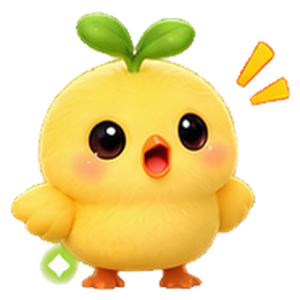
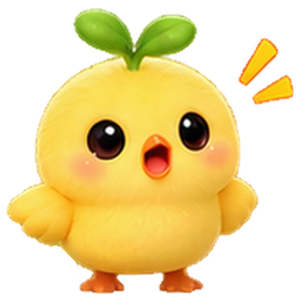
feat: 자산아리 초원 배경 + LV.6~10 반짝이 장식 제거
- 무대 배경을 초원 이미지(public/chicks/bg_meadow.jpg)로, 진화 단계 색은 옅게 오버레이
- 병아리 발밑 그림자 추가
- LV.6~10 이미지에서 마름모·빛구슬·반짝이 제거 (감정 표시·LV.9 발밑 링은 유지)

Claude-Session: https://claude.ai/code/session_01WQWVGWAsMdbJfLVQ28Wqvx

diff --git a/components/analysis/AssetChick.tsx b/components/analysis/AssetChick.tsx
@@ -171,7 +171,19 @@ export default function AssetChick({ totalAssets, transactions, budgets, monthSt
       `}</style>
 
       {/* 무대 */}
-      <div style={{ position: "relative", height: 220, borderRadius: 20, overflow: "hidden", background: stage.bg, marginTop: 12 }}>
+      <div
+        style={{
+          position: "relative",
+          height: 220,
+          borderRadius: 20,
+          overflow: "hidden",
+          // 초원 배경 + (이미지 로딩 전/실패 시) 단계 색
+          background: `url(/chicks/bg_meadow.jpg) center 62% / cover no-repeat, ${stage.bg}`,
+          marginTop: 12,
+        }}
+      >
+        {/* 진화 단계 색을 살짝 얹어 분위기만 바꿈 */}
+        <div style={{ position: "absolute", inset: 0, background: stage.bg, opacity: stage.from >= 31 ? 0.28 : 0.12, pointerEvents: "none" }} />
         {/* 빛기둥 (불사조 신화) */}
         {stage.pillars &&
           [18, 36, 64, 82].map((left, i) => (
@@ -290,6 +302,21 @@ export default function AssetChick({ totalAssets, transactions, budgets, monthSt
             )}
           </span>
         ))}
+
+        {/* 발밑 그림자 (풀밭에 서 있는 느낌) */}
+        <div
+          style={{
+            position: "absolute",
+            left: "50%",
+            bottom: 24,
+            width: 92,
+            height: 16,
+            marginLeft: -46,
+            borderRadius: "50%",
+            background: "radial-gradient(ellipse, rgba(30,60,10,0.35) 0%, transparent 70%)",
+            pointerEvents: "none",
+          }}
+        />
 
         {/* 병아리 */}
         <button
